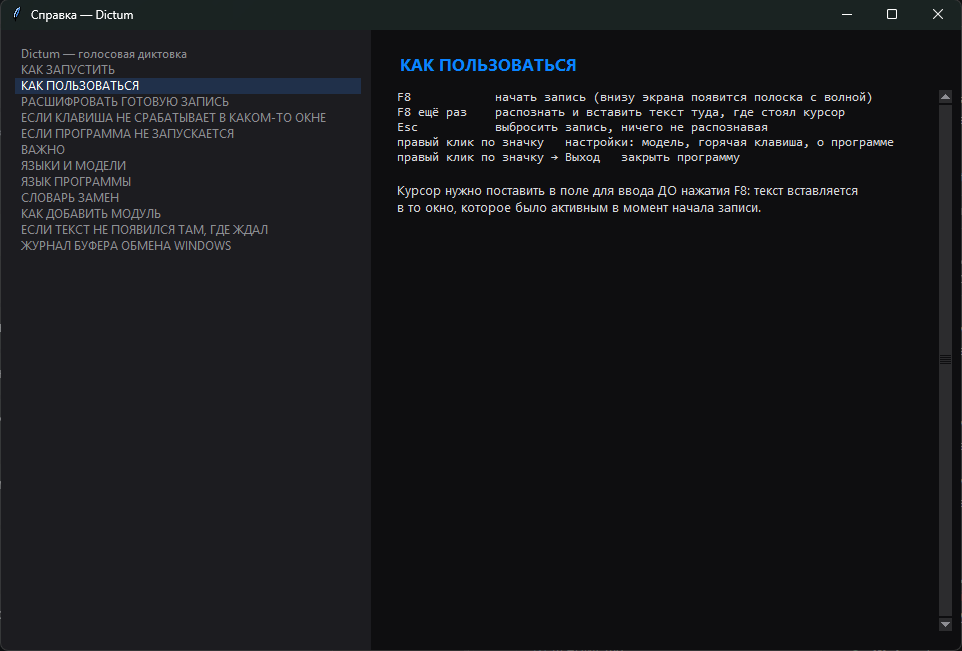
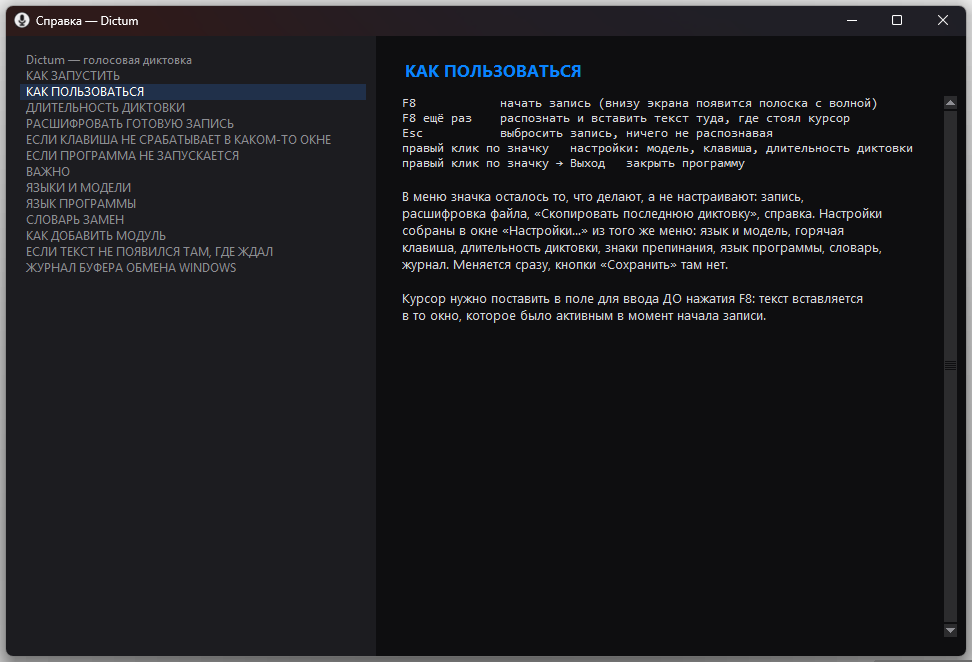
Значок один на всю программу: жетон вместо трёх разных лиц
У окон значок брал цвет у темы Windows, как значок в лотке. Лотку это верно —
он лежит на панели задач и меняется вместе с ней. Окнам нет: тело залито
SOLID_BG, а рамку dark_titlebar() красит тёмной безусловно, какой бы ни была
тема системы. Пока тема тоже была тёмной, обе логики совпадали и разницы не
было видно; на светлой теме значок стал тёмным на тёмном и пропал.

Одноцветным значком тут не обойтись вовсе: тот же файл Windows кладёт и на
всегда-тёмную рамку окна, и на кнопку панели задач, которую красит по своей
теме. Поэтому рисуется жетон — тёмный микрофон в светлом круге с тёмным ободом:
светлый круг читается на тёмном фоне, тёмный обод на светлом, и угадывать
больше нечего. Микрофон не перерисован, берётся прежний и вкладывается внутрь.

Пропорции выбраны сравнением отрисовок на 16, 24, 32, 48 и 64 точках, на обоих
фонах: обод 3 из 64, микрофон 48 из 64. Отдельный рисунок под 16 точек по сетке
пикселей пробовали и отвергли — со сглаживанием на глаз приятнее.

Тот же жетон теперь и у значка exe, вместо акцентного синего. Синий читался на
обоих фонах, но был третьим лицом программы; задача у файла та же, а решение
теперь общее.

Заодно: размер 256 убран из списка размеров значка exe. Он там стоял, но в файл
не попадал никогда — рисунок 64 точки, а PIL размеры крупнее исходника молча
пропускает. Проверено чтением готового .ico: внутри 16, 32, 48 и 64.

Снимки интерфейса переделаны под новый значок: меню, настройки, справка,
[…]

Changed region(s): [[0.0, 0.0, 1.0, 1.0], [0.4054, 0.0922, 0.9356, 0.4916]]

diff --git a/build_exe.py b/build_exe.py
@@ -71,16 +71,30 @@ EXCLUDE = ["torch", "faster_whisper", "ctranslate2", "av", "tkinter.test", "pyte
 def make_icon(path: Path) -> None:
     """Иконка exe рисуется тем же кодом, что и значок в лотке — один источник правды.
 
-    Цвет акцентный синий, а не чёрный и не белый. Лоток и окна выбирают цвет по
-    теме Windows на лету, а этот файл запекается один раз и живёт на всех фонах
-    сразу: чёрный терялся на тёмной панели задач, белый — в светлом проводнике.
-    Синий читается и там, и там, и он же означает работу в самой программе.
+    Тот же жетон, что у окон программы: тёмный микрофон в светлом круге с
+    тёмным ободом. Задача у файла та же самая — он запекается один раз и живёт
+    на всех фонах сразу: в светлом проводнике, на тёмной панели задач, на чужом
+    рабочем столе. Одноцветный значок обязан этот фон угадать, и любой выбор
+    здесь наполовину неверен: чёрный теряется на тёмном, белый — на светлом.
+
+    До этого брался акцентный синий — он читался на обоих фонах, но был третьим
+    лицом программы: микрофон в лотке, светлый значок в окнах, синий у файла.
+    Жетон снимает и вопрос с фоном, и разнобой: лицо теперь одно.
+
+    Размера 256 в списке нет намеренно. Он там стоял, но в файл не попадал
+    никогда: рисунок у нас 64 точки, а PIL размеры крупнее исходника молча
+    пропускает — отказа нет, записи тоже. Проверено чтением готового .ico:
+    внутри 16, 32, 48 и 64. Просить то, чего не будет, — врать самим себе.
+
+    ponytail: крупные значки в проводнике («огромные») поэтому берут 64 и
+    растягивают. Понадобится чёткий 256 — рисовать жетон сразу в 256, а не
+    дописывать размер в этот список.
     """
     sys.path.insert(0, str(ROOT))
-    from voice_input import TRAY_ON_DARK, tray_image
+    from voice_input import badge_image
 
-    image = tray_image(TRAY_ON_DARK["busy"])  # #0a84ff — тот же акцент, что в капсуле
-    image.save(path, sizes=[(16, 16), (32, 32), (48, 48), (64, 64), (256, 256)])
+    image = badge_image()
+    image.save(path, sizes=[(16, 16), (32, 32), (48, 48), (64, 64)])
     print(f"иконка: {path.name}")
 
 

diff --git a/tests/test_dialogs.py b/tests/test_dialogs.py
@@ -126,3 +126,48 @@ def test_monoshirinnyy_tolko_gde_nado(vd):
     assert vd._monospace("    гугл = Google"), "пример с отступом — тоже разметка пробелами"
     assert not vd._monospace("Курсор нужно поставить в поле для ввода до нажатия F8.")
     assert not vd._monospace("")
+
+
+def test_znachok_okon_ne_sprashivaet_temu_windows(monkeypatch):
+    """Окно не может угадать фон под значком — поэтому и не гадает.
+
+    Рамку окна dark_titlebar() красит тёмной безусловно, а кнопку на панели
+    задач Windows красит по своей теме: один файл ложится на два разных фона.
+    Раньше цвет брался у tray_colors(), то есть у темы системы, и на светлой
+    теме значок выходил тёмным — на тёмной рамке его не было видно.
+    """
+    import types
+
+    спрошено, нарисовано = [], []
+    monkeypatch.setitem(sys.modules, "voice_input", types.SimpleNamespace(
+        tray_colors=lambda: спрошено.append("тема") or {"idle": "#1c1c1e"},
+        tray_image=lambda цвет: types.SimpleNamespace(save=lambda *a, **kw: None),
+        badge_image=lambda *a, **kw: нарисовано.append("жетон") or types.SimpleNamespace(
+            save=lambda *a, **kw: None),
+    ))
+    окно = _load("voice_window")
+
+    assert окно.set_app_icon(types.SimpleNamespace(iconbitmap=lambda **kw: None)) is True
+    assert спрошено == [], "значок окон спросил тему Windows, а спрашивать нечего"
+    assert нарисовано == ["жетон"], "значок окон нарисован не жетоном"
+
+
+def test_zheton_neset_fon_s_soboy():
+    """У жетона обязаны быть обе половины: светлый круг и тёмный обод.
+
+    Одна из них пропадёт — значок снова станет угадывать фон: без круга он
+    потеряется на тёмной рамке, без обода — на светлой панели задач.
+    """
+    import sys as _sys
+    _sys.path.insert(0, str(ROOT))
+    from voice_input import badge_image
+
+    значок = badge_image().convert("RGBA")
+
+    угол = значок.getpixel((1, 1))
+    обод = значок.getpixel((32, 1))    # верх обода
+    круг = значок.getpixel((10, 32))   # слева от микрофона, внутри круга
+
+    assert угол[3] == 0, "углы жетона обязаны остаться прозрачными"
+    assert обод[3] == 255 and sum(обод[:3]) < 200, f"обод не тёмный: {обод}"
+    assert круг[3] == 255 and sum(круг[:3]) > 600, f"круг не светлый: {круг}"

diff --git a/voice_input.py b/voice_input.py
@@ -1443,6 +1443,39 @@ def tray_image(color: str):
     return img
 
 
+def badge_image(mic: str = "#1c1c1e", disc: str = "#f2f2f4", ring: str = "#1c1c1e"):
+    """Микрофон в светлом круге с тёмным ободом — значок, читаемый на любом фоне.
+
+    Одноцветный значок обязан угадать фон под собой: светлый пропадает на
+    светлой теме, тёмный — на тёмной. Значку окон угадывать нечем: рамка окна у
+    программы всегда тёмная, а кнопка на панели задач красится по теме системы,
+    и это два разных фона у одного файла.
+
+    Жетон снимает вопрос вовсе: светлый круг даёт контраст тёмному фону, тёмный
+    обод — светлому. Собственный фон значок несёт с собой, и угадывать больше
+    нечего.
+
+    Микрофон не перерисовывается: берётся tray_image и вкладывается внутрь
+    уменьшенным. Рисунок у программы один, и правка формы микрофона доходит
+    сюда сама.
+    """
+    from PIL import Image, ImageDraw
+
+    img = Image.new("RGBA", (64, 64), (0, 0, 0, 0))
+    d = ImageDraw.Draw(img)
+    d.ellipse([0, 0, 63, 63], fill=ring)    # обод: виден на светлом фоне
+    d.ellipse([3, 3, 60, 60], fill=disc)    # круг: даёт контраст на тёмном
+
+    # Пропорции выбраны сравнением отрисовок на 16, 24, 32, 48 и 64 точках, на
+    # светлом фоне и на тёмном. Обод тонкий (3 из 64), микрофон крупный (48 из
+    # 64): на мелких размерах место решает всё, и толстый обод отнимал его у
+    # самого рисунка — микрофон превращался в пятно. Плата известна: на 16
+    # точках тонкий обод местами прерывается при уменьшении.
+    внутри = tray_image(mic).resize((48, 48), Image.LANCZOS)
+    img.paste(внутри, (8, 8), внутри)
+    return img
+
+
 def open_the_log() -> None:
     """Открывает журнал в блокноте. Человеку, у которого не работает, нужен этот файл,
     а искать его по папкам он не станет — значит, надо дать одним нажатием."""

diff --git a/help_text.py b/help_text.py
@@ -21,20 +21,20 @@ TEXT = """Dictum — голосовая диктовка
   F8            начать запись (внизу экрана появится полоска с волной)
   F8 ещё раз    распознать и вставить текст туда, где стоял курсор
   Esc           выбросить запись, ничего не распознавая
-  правый клик по значку   настройки: модель, горячая клавиша, длина записи
+  правый клик по значку   настройки: модель, клавиша, длительность диктовки
   правый клик по значку → Выход   закрыть программу
 
   В меню значка осталось то, что делают, а не настраивают: запись,
   расшифровка файла, «Скопировать последнюю диктовку», справка. Настройки
   собраны в окне «Настройки…» из того же меню: язык и модель, горячая
-  клавиша, длина записи, знаки препинания, язык программы, словарь замен,
+  клавиша, длительность диктовки, знаки препинания, язык программы, словарь,
   журнал. Меняется сразу, кнопки «Сохранить» там нет.
 
   Курсор нужно поставить в поле для ввода ДО нажатия F8: текст вставляется
   в то окно, которое было активным в момент начала записи.
 
-ДЛИНА ЗАПИСИ
-  Настройки → «Длина записи»: 2, 5 или 10 минут. По умолчанию две.
+ДЛИТЕЛЬНОСТЬ ДИКТОВКИ
+  Настройки → «Длительность диктовки»: 2, 5 или 10 минут. По умолчанию две.
 
   Это предохранитель на случай «нажал и забыл». Дойдя до предела, программа
   останавливает запись сама, распознаёт сказанное и вставляет текст — начатое

diff --git a/voice_window.py b/voice_window.py
@@ -59,13 +59,18 @@ def set_app_icon(root) -> bool:
     import tempfile
     from pathlib import Path
 
-    from voice_input import tray_colors, tray_image  # тот же рисунок, что в лотке
+    from voice_input import badge_image  # тот же микрофон, что в лотке, но в жетоне
 
     try:
         путь = Path(tempfile.gettempdir()) / "dictum-icon.ico"
-        # Цвет по теме Windows, как у значка в лотке: на тёмной панели задач
-        # тёмный значок сливается с фоном, на светлой — светлый.
-        tray_image(tray_colors()["idle"]).save(
+        # Тему Windows здесь НЕ спрашиваем, в отличие от лотка. Лотку тема
+        # подходит: значок лежит на панели задач и обязан меняться вместе с ней.
+        # Окнам не подходит, и одноцветным значком тут не обойтись вовсе: рамку
+        # dark_titlebar() красит тёмной безусловно, а кнопку на панели задач
+        # Windows красит по своей теме — один файл ложится на два разных фона.
+        # Жетон несёт фон с собой: светлый круг читается на тёмной рамке, тёмный
+        # обод — на светлой панели. Угадывать больше нечего.
+        badge_image().save(
             путь, sizes=[(16, 16), (32, 32), (48, 48), (64, 64)])
         root.iconbitmap(default=str(путь))  # default — значит и всем Toplevel
         return True

diff --git a/README.ru.md b/README.ru.md
@@ -271,13 +271,15 @@ PowerShell, запущенные от администратора, устано
 **В окне настроек** — всё остальное. Меняется сразу, кнопки «Сохранить» нет: так
 же работали прежние пункты меню, и заводить второй порядок ради окна незачем.
 
+![Окно настроек Dictum](docs/img/nastroyki.png)
+
 - **Язык и модель** — переключение между тремя моделями. Незнакомая скачается
   сама, выбор запомнится. Здесь, а не в меню, нарочно: модель выбирают один раз
   и больше к ней не возвращаются, а пункт в меню пришлось бы обходить каждый
   день.
 - **Горячая клавиша** — кнопка «Изменить», затем нажать желаемую клавишу.
   Esc — оставить прежнюю.
-- **Длина записи** — 2, 5 или 10 минут. Дойдя до предела, программа
+- **Длительность диктовки** — 2, 5 или 10 минут. Дойдя до предела, программа
   останавливает запись сама и вставляет то, что успела услышать. Сказанное
   после этого не записывается: микрофон уже закрыт, и в капсуле об этом
   появится надпись. Новый предел действует со следующей диктовки.
@@ -294,6 +296,8 @@ PowerShell, запущенные от администратора, устано
 - **Показать журнал** — тот самый файл, который просят прислать при поломке.
 
 Справка и «О программе» остались в меню: их открывают, а не настраивают.
+
+![Окно «О программе» Dictum](docs/img/o-programme.png)
 
 Выбранное сохраняется в файле `.env` рядом с программой и переживает перезапуск.
 

diff --git a/README.md b/README.md
@@ -280,13 +280,15 @@ Right-click the icon next to the clock:
 **In the settings window** — everything else. Changes apply at once; there is no
 "Save" button, exactly as the old menu items behaved.
 
+![The Dictum settings window](docs/img/nastroyki.png)
+
 - **Язык и модель** ("Language and model") — switches between three models. An
   unfamiliar one downloads itself, and the choice is remembered. It lives here
   rather than in the menu on purpose: a model is picked once and then forgotten,
   while a menu item would be in the way every day.
 - **Горячая клавиша** ("Hotkey") — the "Изменить" button, then press the key you
   want. Esc keeps the old one.
-- **Длина записи** ("Recording length") — 2, 5 or 10 minutes. On reaching the
+- **Длительность диктовки** ("Dictation length") — 2, 5 or 10 minutes. On reaching the
   limit the program stops recording by itself and pastes what it has heard so
   far. Anything said after that is not recorded — the microphone is already
   closed, and the capsule says so. A new limit applies from the next dictation.
@@ -306,6 +308,8 @@ Right-click the icon next to the clock:
 - **Показать журнал** ("Show the log") — the file to send when something breaks.
 
 Help and About stay in the menu: you open them, you don't configure them.
+
+![The Dictum about window](docs/img/o-programme.png)
 
 The choices are stored in a `.env` file next to the program and survive a restart.
 
